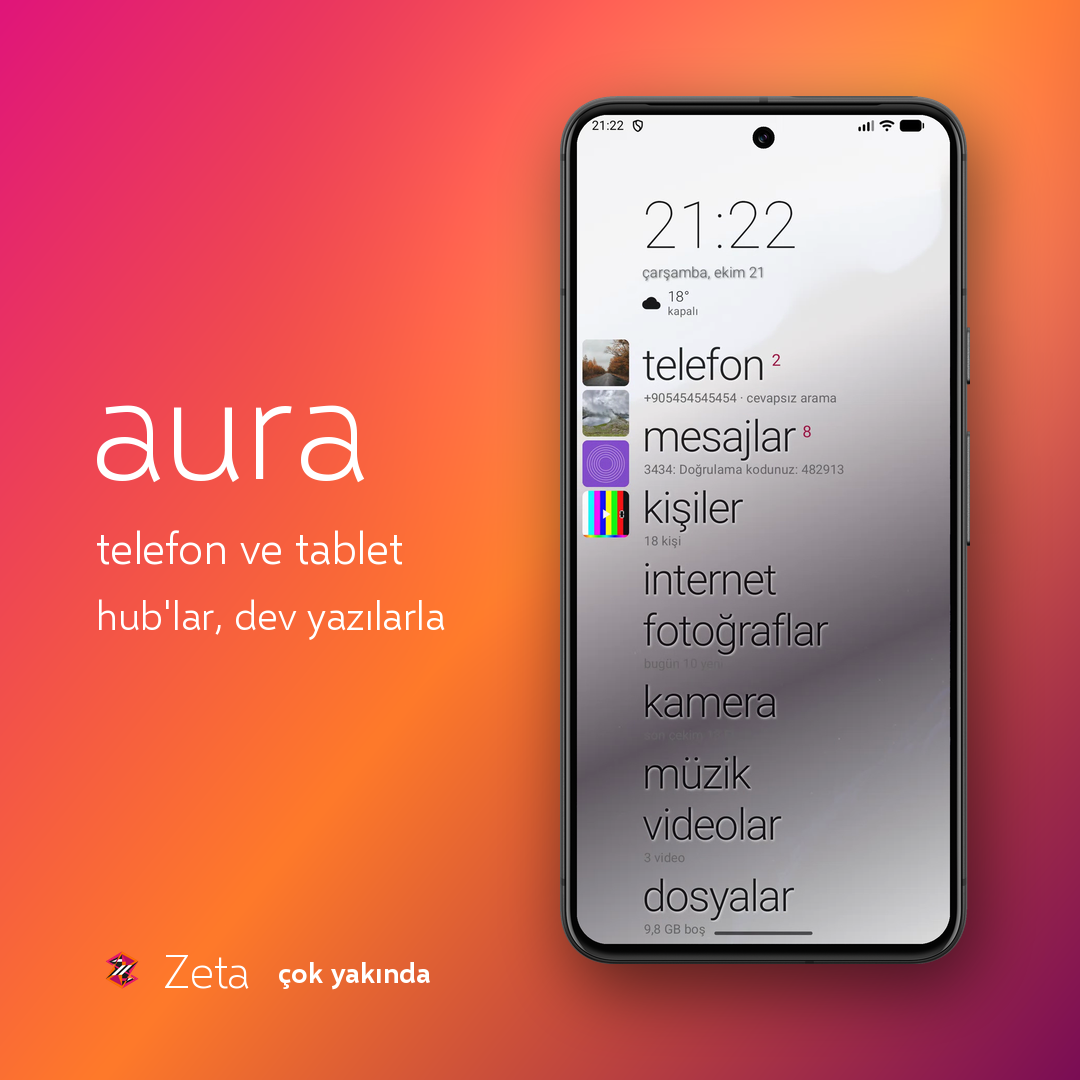
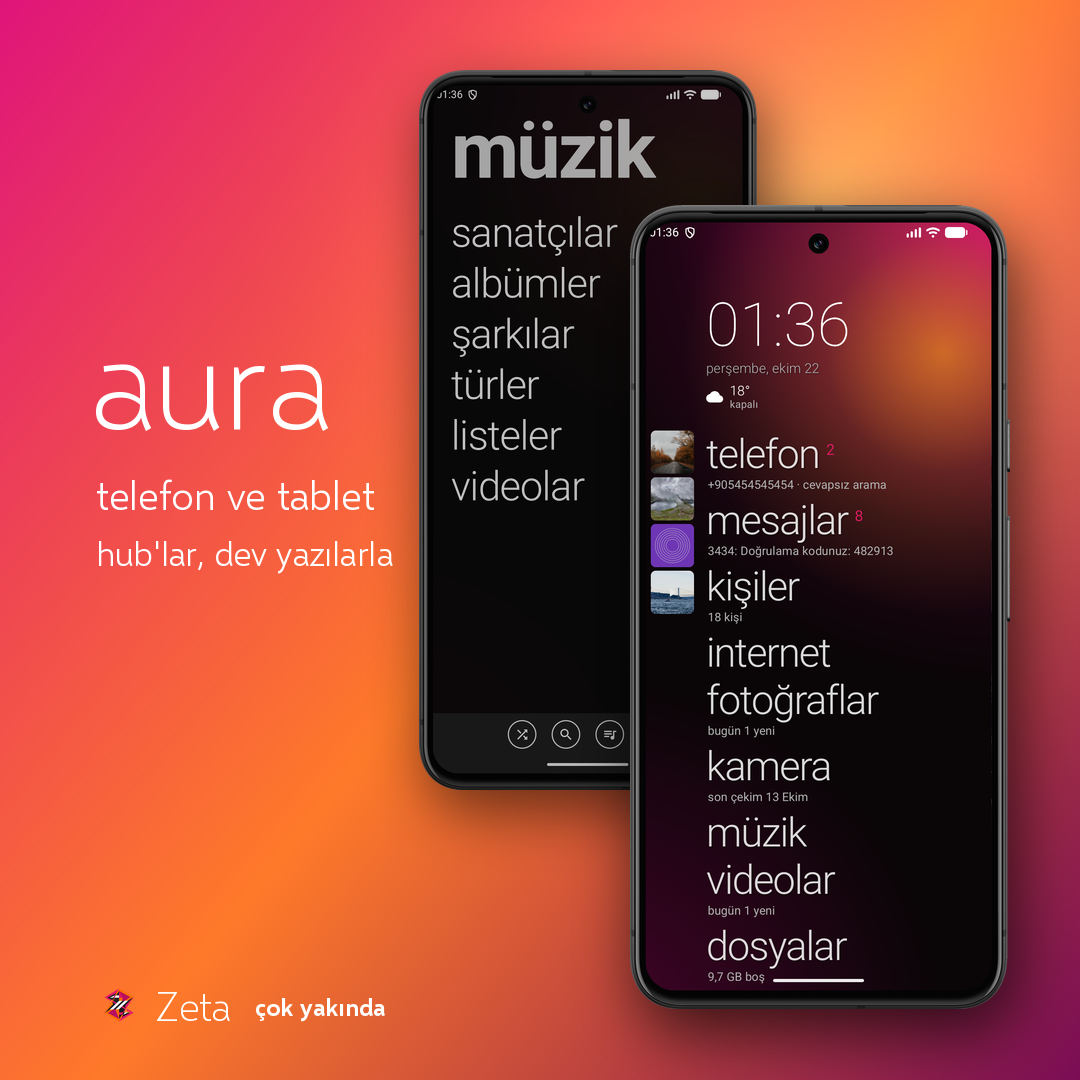
store(social): Aura on the dark theme with its glow, two phones - home in front, music behind

diff --git a/store/social/social.py b/store/social/social.py
@@ -117,7 +117,26 @@ DESIGNS = [
 def square(i, name, kind, shot, cols, sub, tag):
     W = H = 1080
     img = ground(W, H, *cols)
-    if kind == 'phone':
+    if name == 'aura':
+        # Two phones: home in front on the right; the music hub behind it on the left, a little dimmer,
+        # its menu - set against the left edge - showing past the front phone.
+        front = device('phone', 'aura_home.png', 380)
+        fx, fy = W - 70 - front.width, 205
+        back = device('phone', 'aura_music.png', 340)
+        shade = Image.new('RGBA', back.size, (0, 0, 0, 0))
+        shade.putalpha(back.split()[3].point(lambda v: int(v * 0.22)))
+        back.alpha_composite(shade)
+        place(img, back, fx - back.width * 0.62, 70)
+        place(img, front, fx, fy, shadow=0.7)
+        text(img, (90, 300), name, LIGHT, 130)
+        y = 470
+        for line in wrap(sub, SEMI, 40, 300):
+            text(img, (96, y), line, SEMI, 40); y += 52
+        y += 10
+        for line in wrap(tag, SEMI, 34, 330):
+            text(img, (96, y), line, SEMI, 34, fill=(255, 255, 255, 215)); y += 46
+        brand(img, 96, H - 75, 40, soon_fill=(255, 255, 255, 255))
+    elif kind == 'phone':
         dev = device(kind, shot, 410)
         place(img, dev, W - 110 - dev.width, (H - dev.height) / 2 - 10)
         text(img, (90, 330), name, LIGHT, 150)

diff --git a/store/social/README.md b/store/social/README.md
@@ -10,5 +10,5 @@
 
 Her arayüz kendi cihazının çerçevesinde (Android Studio'nun cihaz çizimleri), tanıtım videosunun
 renklerinde. Ekran görüntüleri emülatörden; televizyonun adı çekim için "Salon TV" yapıldı, galerideki
-fotoğraflar Pexels'ten (bkz. `../video/CREDITS.md`). Yeniden üretmek: ekran görüntülerini `work/` içine
-koyup (`aura1`, `moz1`, `pan1`, `taura1`, `k_home`, `s_home`) `python3 social.py` (numpy, Pillow).
+fotoğraflar Pexels'ten. Aura görseli koyu tema ve Aura ışıltısıyla, iki telefon: önde ana ekran, arkada müzik hub'ı (bkz. `../video/CREDITS.md`). Yeniden üretmek: ekran görüntülerini `work/` içine
+koyup (`aura_home`, `aura_music`, `moz1`, `pan1`, `taura1`, `k_home`, `s_home`) `python3 social.py` (numpy, Pillow).
